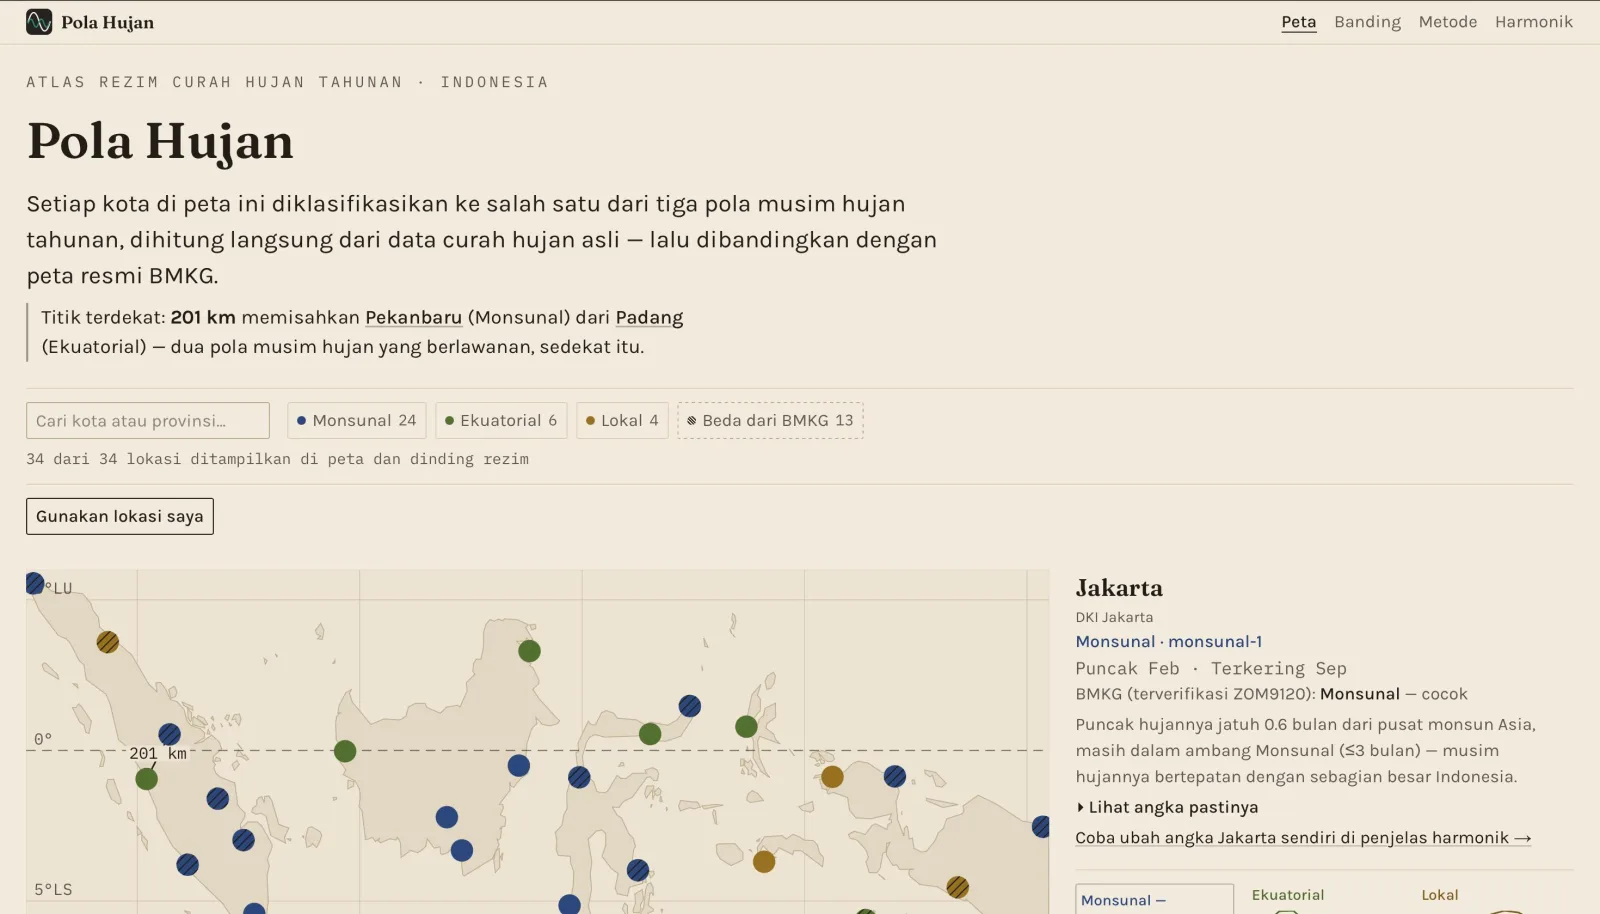
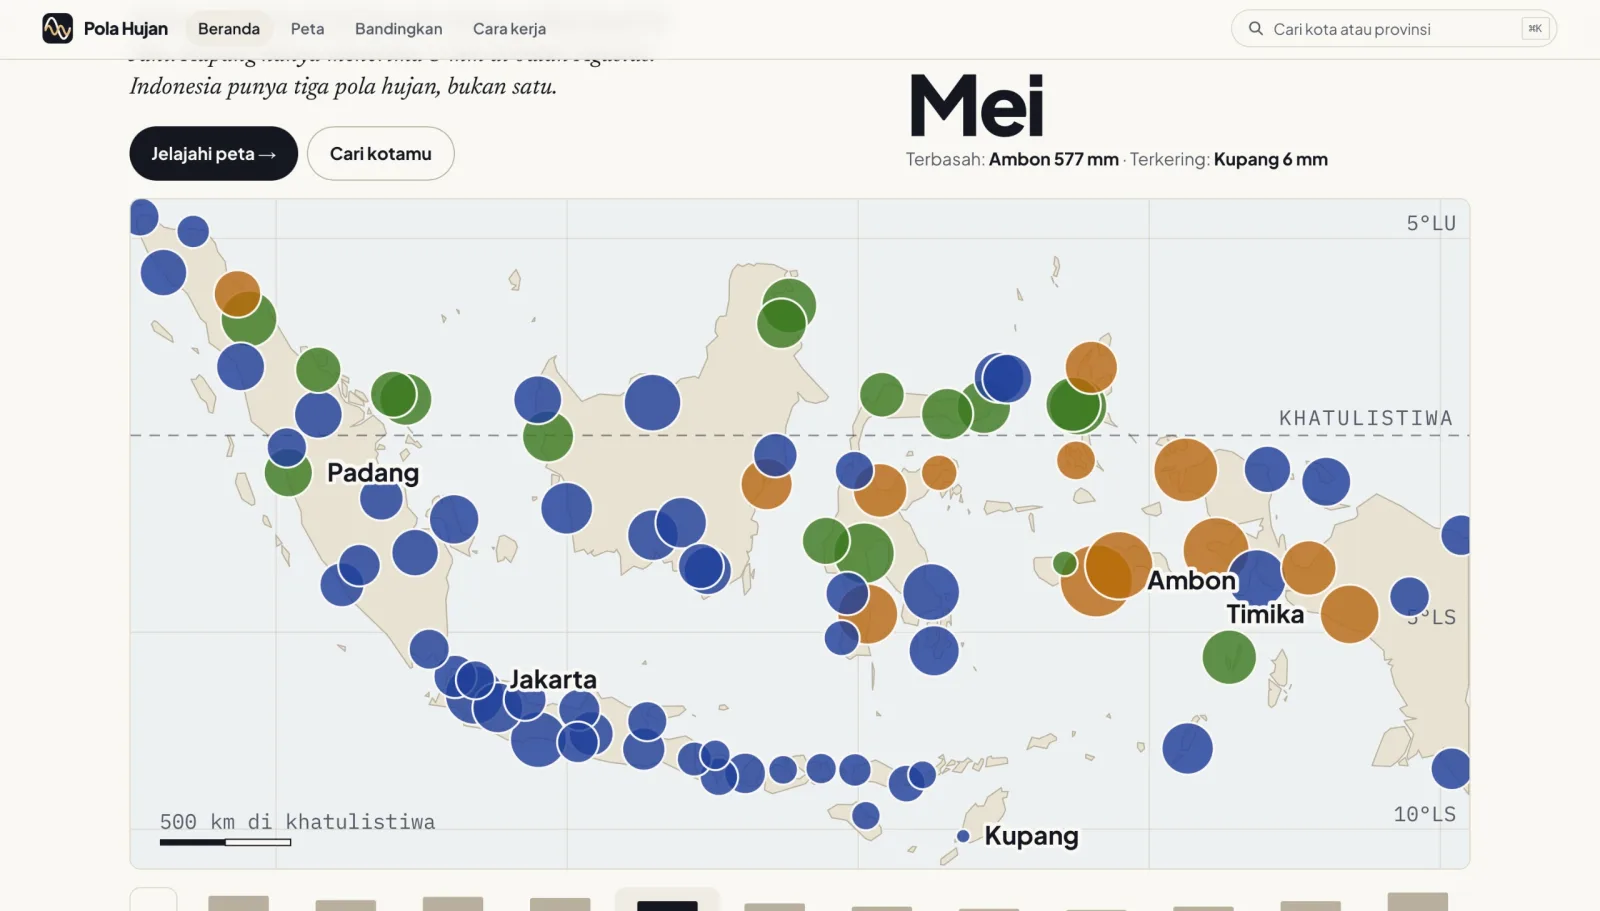
content(faraid-visualizer, pola-hujan): refresh screenshots, feature Pola Hujan
Replaced the hero and all case-study screenshots for both projects with
new captures, converted to WebP within the repo's asset budget.

Marked Pola Hujan featured and appended it to FEATURED_ORDER in
lib/content.ts; Faraid Visualizer's screenshots/hero were updated only,
no featured-status change requested. Bumped getFeaturedProjects(12) to
getFeaturedProjects(13) in app/[locale]/page.tsx to match the new
featured count.

diff --git a/app/[locale]/page.tsx b/app/[locale]/page.tsx
@@ -135,7 +135,7 @@ export default async function HomePage({
   setRequestLocale(locale);
   // Matches the count of projects actually marked featured (see FEATURED_ORDER
   // in lib/content.ts) so the strip never silently drops one off the end.
-  const featuredProjects = getFeaturedProjects(12);
+  const featuredProjects = getFeaturedProjects(13);
   const stats = getPortfolioStats();
 
   return (

diff --git a/lib/content.ts b/lib/content.ts
@@ -136,6 +136,7 @@ const FEATURED_ORDER = [
   'quranlytics', // indep · data
   'gempa-watch', // indep · data
   'zero-shadow-day', // indep · explainer
+  'pola-hujan', // indep · explainer
 ];
 
 export function getFeaturedProjects(limit = 3): ProjectMeta[] {
